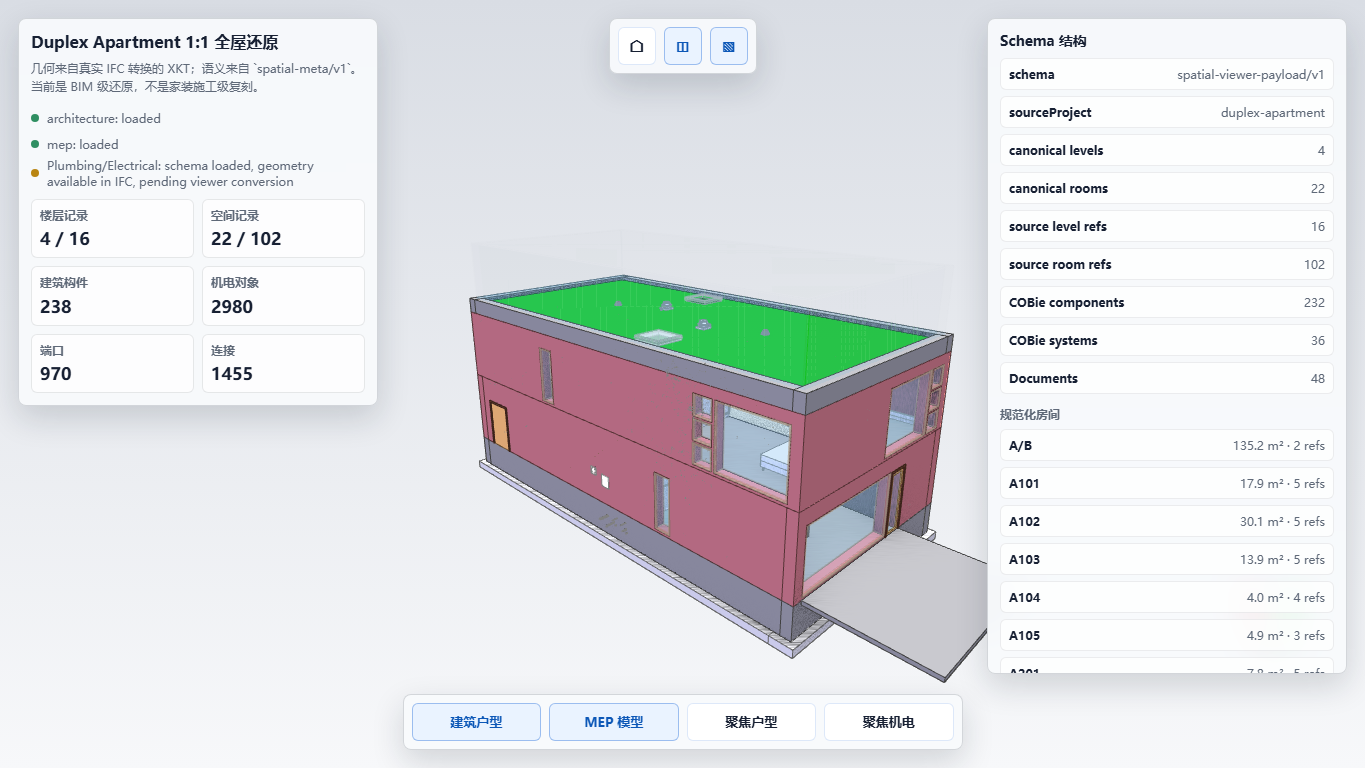
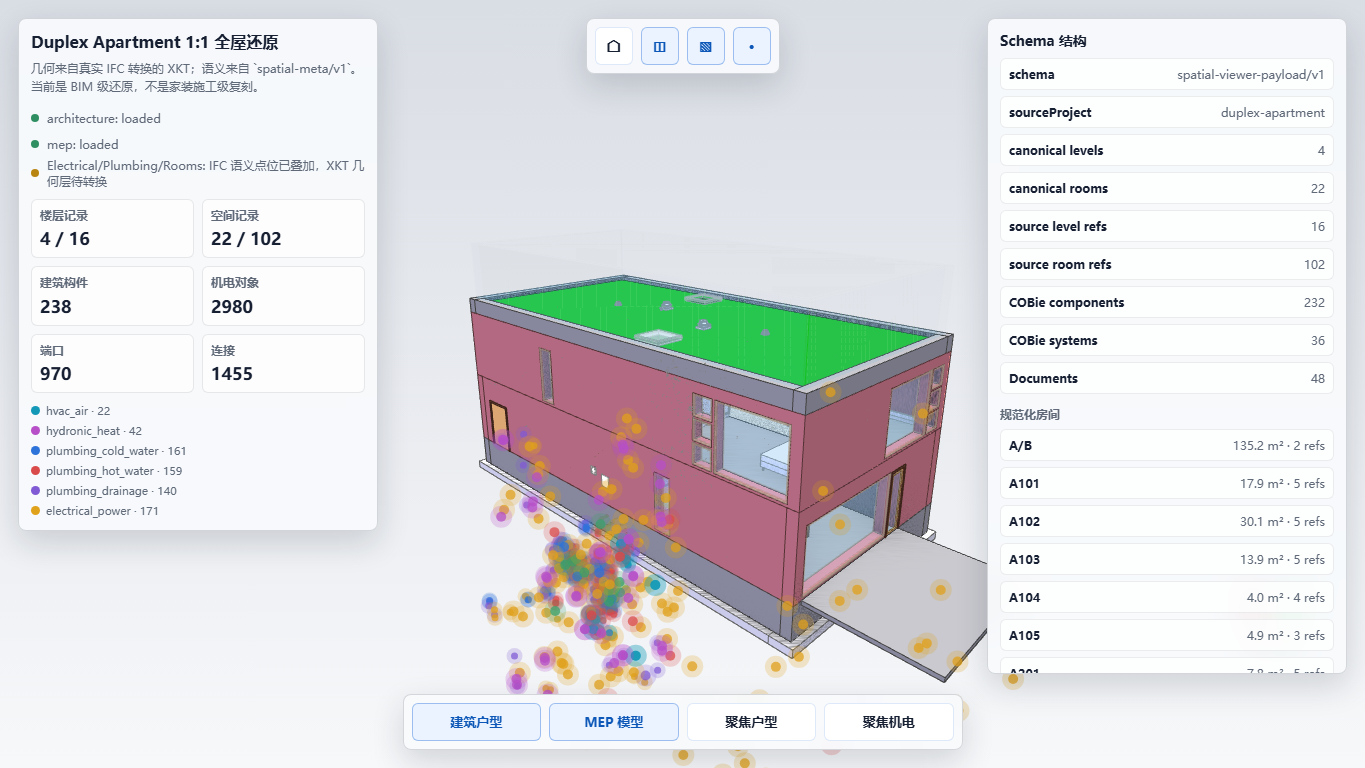
Add semantic overlays to duplex viewer

diff --git a/duplex-simulation.html b/duplex-simulation.html
@@ -50,6 +50,15 @@
       pointer-events: none;
     }
 
+    #semanticOverlay {
+      position: fixed;
+      inset: 0;
+      z-index: 2;
+      width: 100%;
+      height: 100%;
+      pointer-events: none;
+    }
+
     .panel {
       position: fixed;
       z-index: 3;
@@ -135,6 +144,27 @@
 
     .dot.warn {
       background: var(--amber);
+    }
+
+    .legend {
+      display: grid;
+      gap: 5px;
+      margin-top: 10px;
+      color: var(--muted);
+      font-size: 11px;
+    }
+
+    .legend span {
+      display: inline-flex;
+      gap: 6px;
+      align-items: center;
+    }
+
+    .legend i {
+      width: 9px;
+      height: 9px;
+      border-radius: 50%;
+      background: var(--blue);
     }
 
     .toolbar {
@@ -293,6 +323,24 @@
       font-weight: 600;
     }
 
+    .detail {
+      margin-top: 8px;
+      padding: 9px;
+      border: 1px solid rgba(20, 27, 39, 0.08);
+      border-radius: 6px;
+      background: rgba(255, 255, 255, 0.72);
+      color: var(--muted);
+      font-size: 11px;
+      line-height: 1.42;
+    }
+
+    .detail strong {
+      display: block;
+      margin-bottom: 3px;
+      color: var(--ink);
+      font-size: 12px;
+    }
+
     .loading {
       position: fixed;
       left: 50%;
@@ -341,6 +389,7 @@
 </head>
 <body>
   <canvas id="viewer"></canvas>
+  <canvas id="semanticOverlay"></canvas>
   <canvas id="navCubeCanvas"></canvas>
 
   <section class="panel hud" aria-label="simulation status">
@@ -348,7 +397,7 @@
     <p class="sub">几何来自真实 IFC 转换的 XKT；语义来自 `spatial-meta/v1`。当前是 BIM 级还原，不是家装施工级复刻。</p>
     <div class="status-row"><span class="dot ok"></span><span id="archStatus">Architecture: loading</span></div>
     <div class="status-row"><span class="dot ok"></span><span id="mepStatus">MEP: loading</span></div>
-    <div class="status-row"><span class="dot warn"></span><span>Plumbing/Electrical: schema loaded, geometry available in IFC, pending viewer conversion</span></div>
+    <div class="status-row"><span class="dot warn"></span><span>Electrical/Plumbing/Rooms: IFC 语义点位已叠加，XKT 几何层待转换</span></div>
     <div class="metrics">
       <div class="metric"><b>楼层记录</b><span id="levels">0</span></div>
       <div class="metric"><b>空间记录</b><span id="spaces">0</span></div>
@@ -357,12 +406,14 @@
       <div class="metric"><b>端口</b><span id="portCount">0</span></div>
       <div class="metric"><b>连接</b><span id="linkCount">0</span></div>
     </div>
+    <div class="legend" id="overlayLegend"></div>
   </section>
 
   <nav class="panel topbar" aria-label="view tools">
     <button class="icon-btn" id="homeBtn" title="重置视角">⌂</button>
     <button class="icon-btn" id="xrayBtn" title="半透明">◫</button>
     <button class="icon-btn" id="edgesBtn" title="边线">▧</button>
+    <button class="icon-btn active" id="overlayBtn" title="语义点位">•</button>
   </nav>
 
   <section class="panel schema" aria-label="schema summary">
@@ -374,6 +425,10 @@
     <div class="chips" id="systemChips"></div>
     <input class="field" id="objectSearch" type="search" placeholder="搜索构件、房间、管线、设备" />
     <ul class="object-list" id="objectList"></ul>
+    <div class="detail" id="objectDetail">
+      <strong>对象详情</strong>
+      选择列表里的对象后，这里会显示来源、分类、坐标和是否已经进入 XKT 几何层。
+    </div>
   </section>
 
   <nav class="panel toolbar" aria-label="model layers">
@@ -434,6 +489,8 @@
     });
 
     const xktLoader = new XKTLoaderPlugin(viewer);
+    const overlayCanvas = document.querySelector("#semanticOverlay");
+    const overlayCtx = overlayCanvas.getContext("2d");
     const loadedModels = {};
     const loadedKinds = new Set();
     let viewerPayload = null;
@@ -441,6 +498,20 @@
     let selectedObjectId = null;
     let edgesEnabled = true;
     let xrayEnabled = false;
+    let overlayEnabled = true;
+
+    const categoryColors = {
+      electrical_power: "#e0a11b",
+      fire_safety: "#d94b4b",
+      fixture: "#38a169",
+      hvac_air: "#1399b7",
+      hydronic_heat: "#b64fc8",
+      mep_other: "#718096",
+      plumbing_cold_water: "#2d73d9",
+      plumbing_drainage: "#805ad5",
+      plumbing_hot_water: "#d94b4b",
+      plumbing_other: "#5f6978"
+    };
 
     function setText(selector, value) {
       const node = document.querySelector(selector);
@@ -490,7 +561,10 @@
 
       renderRooms(meta);
       renderSystemChips(meta);
+      renderOverlayLegend(meta);
       renderObjectList();
+      resizeOverlay();
+      drawSemanticOverlay();
     }
 
     function renderRooms(meta) {
@@ -520,9 +594,24 @@
           activeSystemCategory = category;
           renderSystemChips(viewerPayload);
           renderObjectList();
+          document.querySelector("#objectDetail").innerHTML = `
+            <strong>对象详情</strong>
+            当前系统分类：${escapeText(category)}。选择列表里的对象后，这里会显示来源、分类、坐标和是否已经进入 XKT 几何层。
+          `;
+          drawSemanticOverlay();
         });
         chips.appendChild(button);
       });
+    }
+
+    function renderOverlayLegend(meta) {
+      const legend = document.querySelector("#overlayLegend");
+      const counts = meta.systemClassification.counts;
+      const preferred = ["hvac_air", "hydronic_heat", "plumbing_cold_water", "plumbing_hot_water", "plumbing_drainage", "electrical_power"];
+      legend.innerHTML = preferred
+        .filter((category) => counts[category])
+        .map((category) => `<span><i style="background:${categoryColors[category]}"></i>${escapeText(category)} · ${counts[category]}</span>`)
+        .join("");
     }
 
     function renderObjectList() {
@@ -536,6 +625,15 @@
       }).slice(0, 32);
 
       list.innerHTML = "";
+      if (objects.length === 0) {
+        const row = document.createElement("li");
+        const button = document.createElement("button");
+        button.type = "button";
+        button.innerHTML = "<strong>没有匹配对象</strong><span>换一个系统分类或搜索词</span>";
+        row.appendChild(button);
+        list.appendChild(row);
+        return;
+      }
       objects.forEach((item) => {
         const row = document.createElement("li");
         const button = document.createElement("button");
@@ -550,6 +648,60 @@
       });
     }
 
+    function getSemanticObjects() {
+      if (!viewerPayload) return [];
+      const defaultVisible = new Set([
+        "electrical_power",
+        "fire_safety",
+        "fixture",
+        "hvac_air",
+        "hydronic_heat",
+        "plumbing_cold_water",
+        "plumbing_drainage",
+        "plumbing_hot_water"
+      ]);
+      return viewerPayload.objectIndex.filter((item) => {
+        if (item.domain !== "systems" || !Array.isArray(item.location)) return false;
+        if (item.location.every((value) => Math.abs(Number(value) || 0) < 0.0001)) return false;
+        if (activeSystemCategory === "all" && !defaultVisible.has(item.bucket)) return false;
+        return activeSystemCategory === "all" || item.bucket === activeSystemCategory;
+      }).slice(0, 900);
+    }
+
+    function resizeOverlay() {
+      const width = window.innerWidth;
+      const height = window.innerHeight;
+      const ratio = window.devicePixelRatio || 1;
+      overlayCanvas.width = Math.floor(width * ratio);
+      overlayCanvas.height = Math.floor(height * ratio);
+      overlayCanvas.style.width = `${width}px`;
+      overlayCanvas.style.height = `${height}px`;
+      overlayCtx.setTransform(ratio, 0, 0, ratio, 0, 0);
+    }
+
+    function drawSemanticOverlay() {
+      if (!overlayCtx) return;
+      overlayCtx.clearRect(0, 0, overlayCanvas.clientWidth, overlayCanvas.clientHeight);
+      if (!overlayEnabled || !viewerPayload) return;
+
+      const points = getSemanticObjects();
+      points.forEach((item) => {
+        const pos = viewer.camera.projectWorldPos(item.location);
+        if (!pos || pos[0] < -20 || pos[1] < -20 || pos[0] > overlayCanvas.clientWidth + 20 || pos[1] > overlayCanvas.clientHeight + 20) return;
+        const color = categoryColors[item.bucket] || "#2d73d9";
+        overlayCtx.beginPath();
+        overlayCtx.fillStyle = color;
+        overlayCtx.globalAlpha = 0.74;
+        overlayCtx.arc(pos[0], pos[1], item.ifcClass === "IfcFlowSegment" ? 3.5 : 5, 0, Math.PI * 2);
+        overlayCtx.fill();
+        overlayCtx.globalAlpha = 0.22;
+        overlayCtx.beginPath();
+        overlayCtx.arc(pos[0], pos[1], item.ifcClass === "IfcFlowSegment" ? 8 : 11, 0, Math.PI * 2);
+        overlayCtx.fill();
+      });
+      overlayCtx.globalAlpha = 1;
+    }
+
     function findSceneObjectId(rawId) {
       if (!rawId) return null;
       const sceneObjects = viewer.scene.objects;
@@ -559,7 +711,19 @@
 
     function focusObject(item) {
       const objectId = findSceneObjectId(item.id);
-      if (!objectId) return;
+      const detail = document.querySelector("#objectDetail");
+      const location = Array.isArray(item.location) ? item.location.map((value) => Number(value).toFixed(2)).join(", ") : "n/a";
+      detail.innerHTML = `
+        <strong>${escapeText(item.name || item.ifcClass || item.id)}</strong>
+        ${escapeText(item.domain)} · ${escapeText(item.bucket)} · ${escapeText(item.source)}<br>
+        IFC: ${escapeText(item.ifcClass)}<br>
+        坐标: ${escapeText(location)}<br>
+        XKT: ${objectId ? "已匹配，可聚焦" : "未匹配，仅语义点位"}
+      `;
+      if (!objectId) {
+        drawSemanticOverlay();
+        return;
+      }
       if (selectedObjectId) {
         viewer.scene.setObjectsSelected([selectedObjectId], false);
       }
@@ -570,6 +734,7 @@
         duration: 0.55,
         fitFOV: 28
       });
+      drawSemanticOverlay();
     }
 
     function loadModel(kind) {
@@ -662,7 +827,23 @@
     document.querySelector("#homeBtn").addEventListener("click", fitAll);
     document.querySelector("#xrayBtn").addEventListener("click", () => applyXray(!xrayEnabled));
     document.querySelector("#edgesBtn").addEventListener("click", () => applyEdges(!edgesEnabled));
-    document.querySelector("#objectSearch").addEventListener("input", renderObjectList);
+    document.querySelector("#overlayBtn").addEventListener("click", () => {
+      overlayEnabled = !overlayEnabled;
+      document.querySelector("#overlayBtn").classList.toggle("active", overlayEnabled);
+      drawSemanticOverlay();
+    });
+    document.querySelector("#objectSearch").addEventListener("input", () => {
+      renderObjectList();
+      document.querySelector("#objectDetail").innerHTML = `
+        <strong>对象详情</strong>
+        搜索结果已更新。选择列表里的对象后，这里会显示来源、分类、坐标和是否已经进入 XKT 几何层。
+      `;
+    });
+    window.addEventListener("resize", () => {
+      resizeOverlay();
+      drawSemanticOverlay();
+    });
+    viewer.scene.on("tick", drawSemanticOverlay);
     document.querySelector("#edgesBtn").classList.add("active");
 
     await loadSpatialMeta();

diff --git a/docs/duplex-simulation-viewer.md b/docs/duplex-simulation-viewer.md
@@ -32,6 +32,8 @@ It combines:
 - layer controls for Architecture and MEP
 - canonical room and system-category inspection
 - searchable object index with focus-on-object support where the XKT layer is loaded
+- semantic point overlays for Electrical, Plumbing, HVAC, hydronic, fixture, and
+  fire-safety objects that have IFC placement coordinates
 - camera focus controls
 - x-ray and edge display controls
 
@@ -51,6 +53,11 @@ layers:
 
 Those files are included in `spatial-meta.json` and can be converted in the next
 viewer pass.
+
+Until those XKT layers exist, the viewer projects their IFC placement coordinates
+as colored semantic points over the 1:1 model. This is useful for checking system
+presence and approximate distribution, but it is not a substitute for pipe/duct
+centerline geometry or shop-drawing routing.
 
 ## Schema Source
 
@@ -72,6 +79,9 @@ Current schema-side counts:
 - 36 COBie systems
 - 48 COBie documents
 - 3218 searchable architecture/system objects
+- semantic overlay points are drawn from system objects with usable locations;
+  unclassified `*_other` systems are hidden by default and can be inspected by
+  selecting their category
 
 ## Current Status
 
